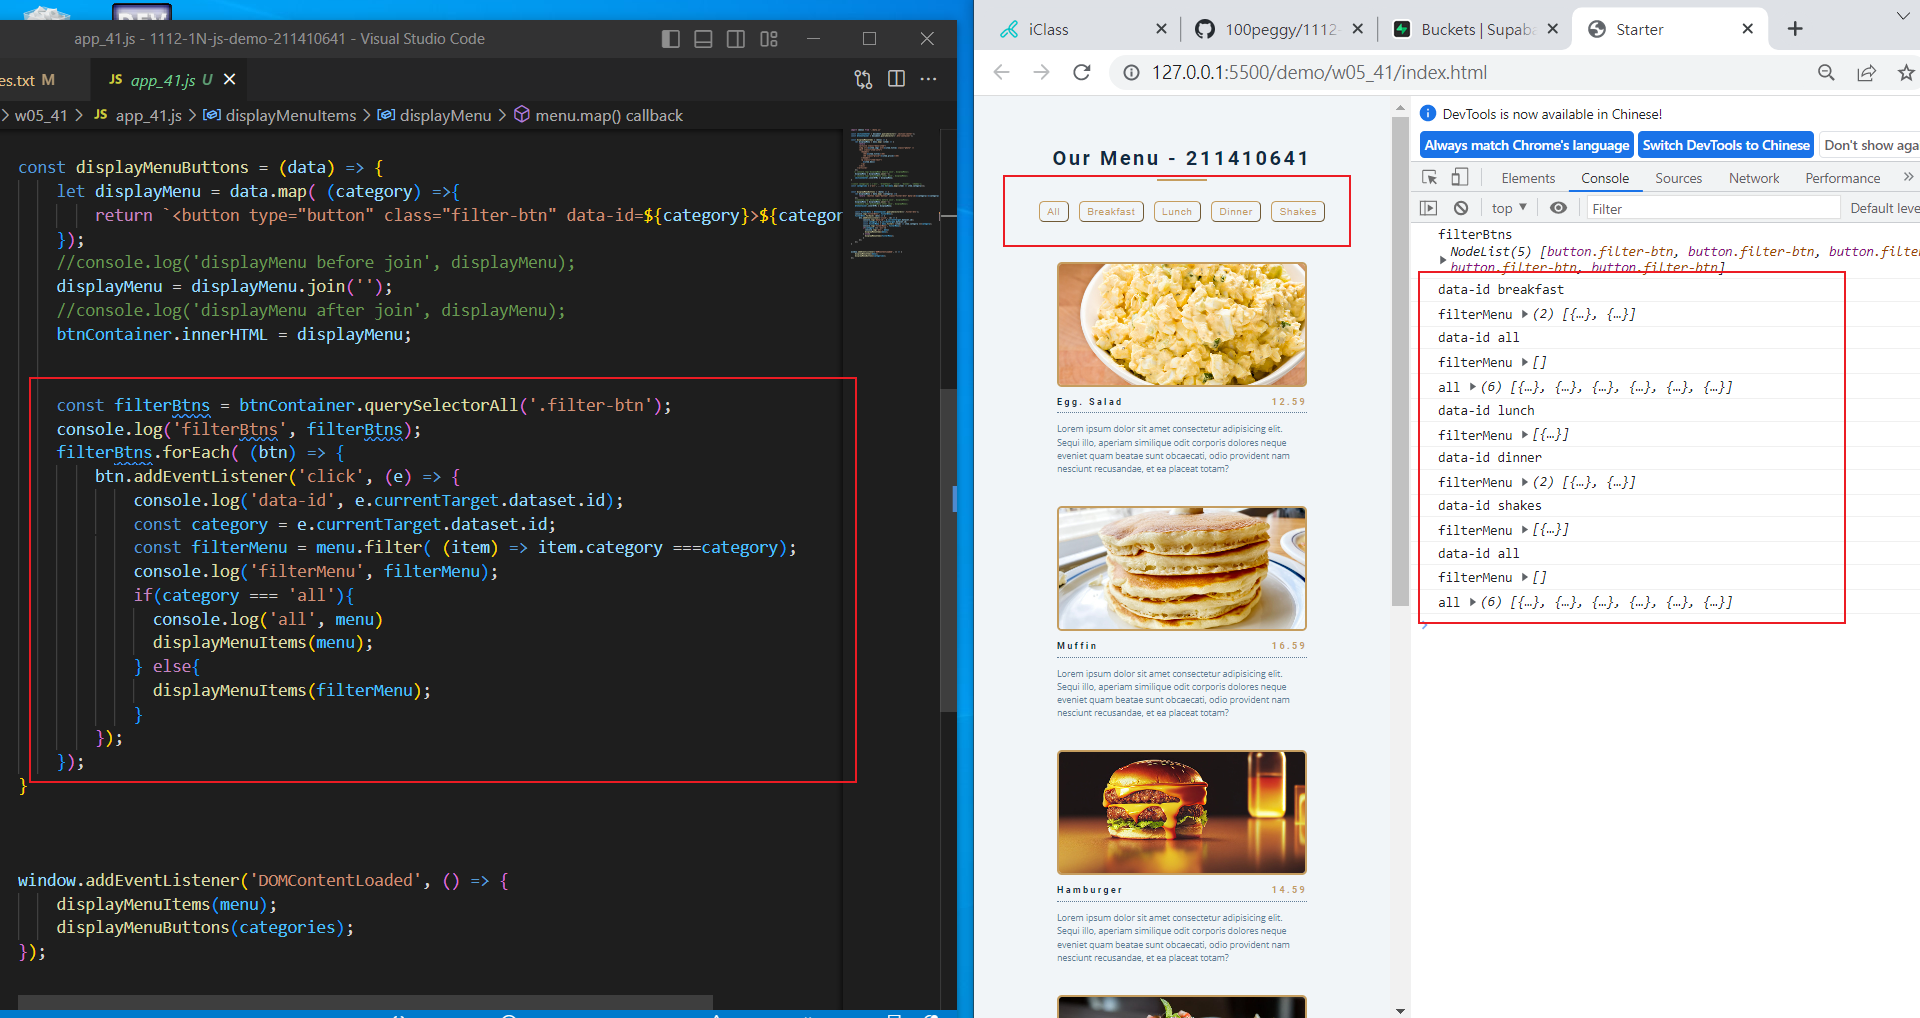
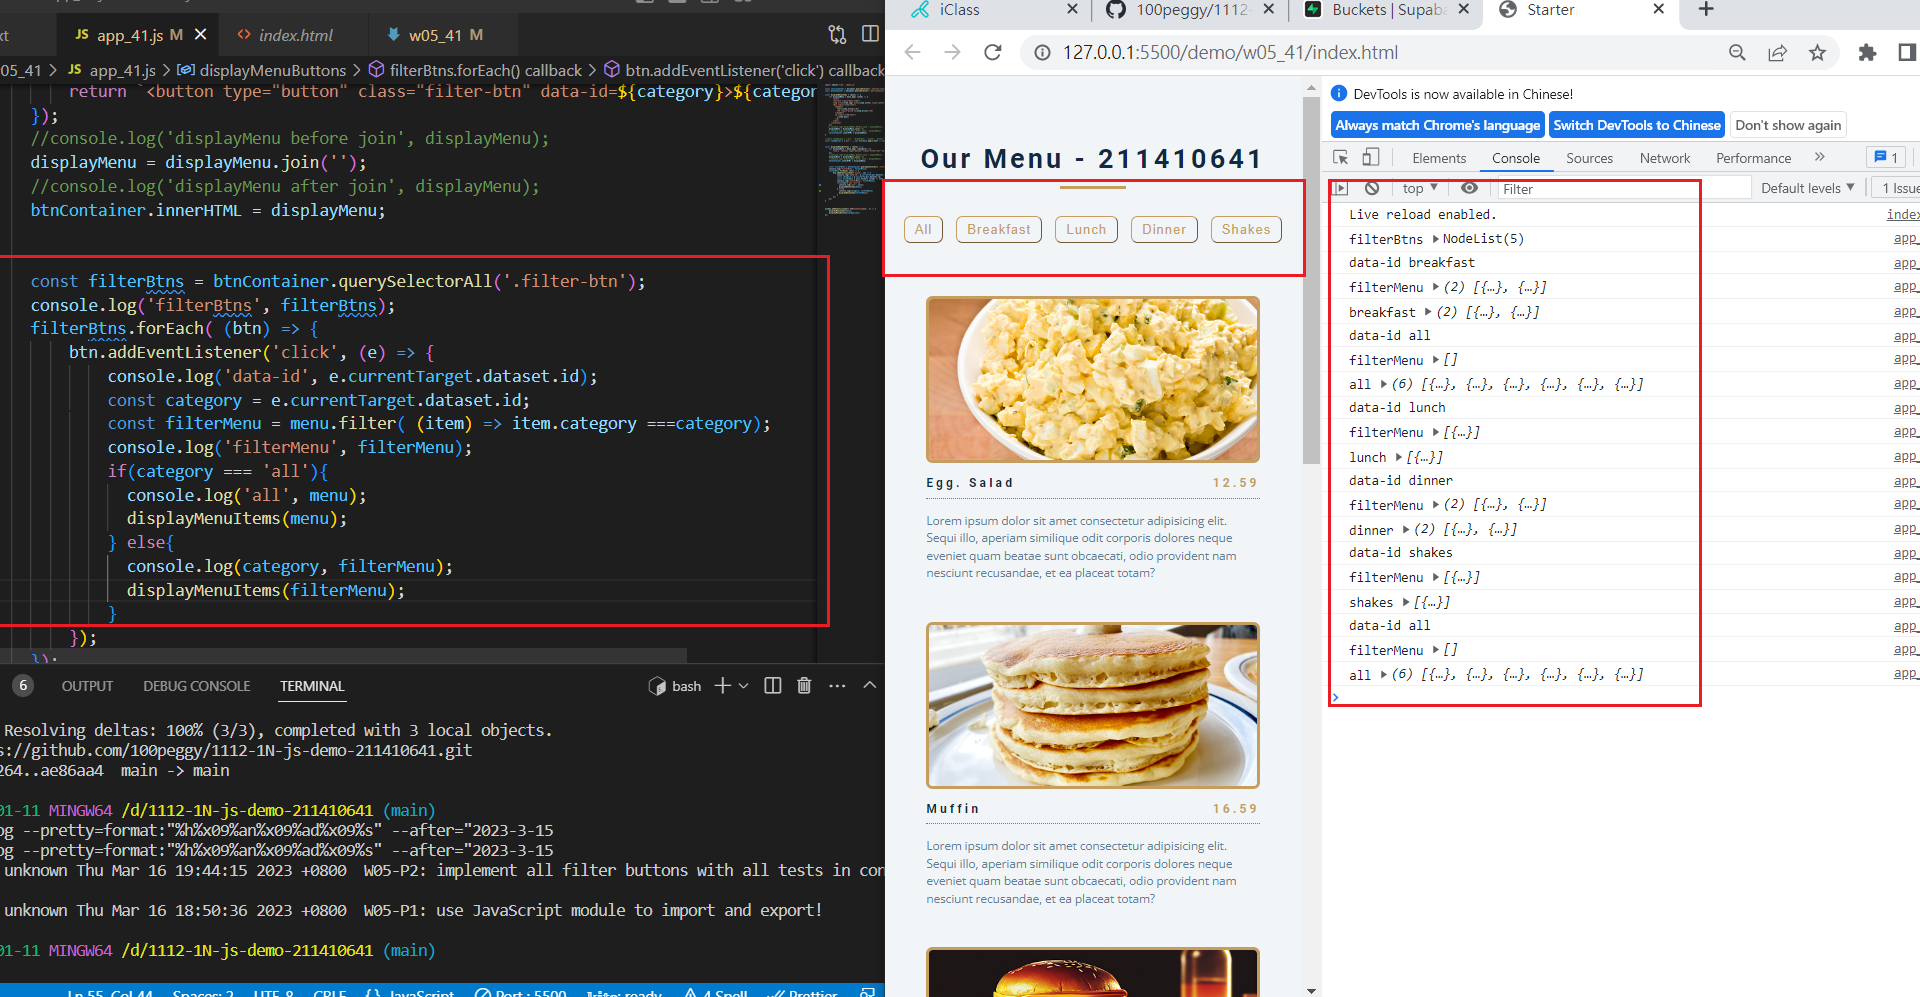
W05-P3: show modal and overlay when pressing a button

diff --git a/style_41.css b/style_41.css
@@ -1,0 +1,85 @@
+* {
+  margin: 0;
+  padding: 0;
+  box-sizing: inherit;
+}
+
+html {
+  font-size: 62.5%;
+  box-sizing: border-box;
+}
+
+body {
+  font-family: sans-serif;
+  color: #333;
+  line-height: 1.5;
+  height: 100vh;
+  position: relative;
+  display: flex;
+  align-items: flex-start;
+  justify-content: center;
+  background: linear-gradient(to top left, #28b487, #7dd56f);
+}
+
+.show-modal {
+  font-size: 2rem;
+  font-weight: 600;
+  padding: 1.75rem 3.5rem;
+  margin: 5rem 2rem;
+  border: none;
+  background-color: #fff;
+  color: #444;
+  border-radius: 10rem;
+  cursor: pointer;
+}
+
+.close-modal {
+  position: absolute;
+  top: 1.2rem;
+  right: 2rem;
+  font-size: 5rem;
+  color: #333;
+  cursor: pointer;
+  border: none;
+  background: none;
+}
+
+h1 {
+  font-size: 2.5rem;
+  margin-bottom: 2rem;
+}
+
+p {
+  font-size: 1.8rem;
+}
+
+/* -------------------------- */
+/* CLASSES TO MAKE MODAL WORK */
+.hidden {
+  display: none;
+}
+
+.modal {
+  position: absolute;
+  top: 50%;
+  left: 50%;
+  transform: translate(-50%, -50%);
+  width: 70%;
+
+  background-color: white;
+  padding: 6rem;
+  border-radius: 5px;
+  box-shadow: 0 3rem 5rem rgba(0, 0, 0, 0.3);
+  z-index: 10;
+}
+
+.overlay {
+  position: absolute;
+  top: 0;
+  left: 0;
+  width: 100%;
+  height: 100%;
+  background-color: rgba(0, 0, 0, 0.6);
+  backdrop-filter: blur(3px);
+  z-index: 5;
+}

diff --git a/index.html b/index.html
@@ -1,0 +1,32 @@
+<!DOCTYPE html>
+<html lang="en">
+  <head>
+    <meta charset="UTF-8" />
+    <meta name="viewport" content="width=device-width, initial-scale=1.0" />
+    <meta http-equiv="X-UA-Compatible" content="ie=edge" />
+    <link rel="stylesheet" href="style_41.css" />
+    <title>Modal window</title>
+  </head>
+  <body>
+    <button class="show-modal">Show modal 1</button>
+    <button class="show-modal">Show modal 2</button>
+    <button class="show-modal">Show modal 3</button>
+
+    <div class="modal hidden">
+      <button class="close-modal">&times;</button>
+      <h1>I'm a modal window 😍</h1>
+      <p>
+        Lorem ipsum dolor sit amet, consectetur adipisicing elit, sed do eiusmod
+        tempor incididunt ut labore et dolore magna aliqua. Ut enim ad minim
+        veniam, quis nostrud exercitation ullamco laboris nisi ut aliquip ex ea
+        commodo consequat. Duis aute irure dolor in reprehenderit in voluptate
+        velit esse cillum dolore eu fugiat nulla pariatur. Excepteur sint
+        occaecat cupidatat non proident, sunt in culpa qui officia deserunt
+        mollit anim id est laborum.
+      </p>
+    </div>
+    <div class="overlay hidden"></div>
+
+    <script src="script_41.js"></script>
+  </body>
+</html>

diff --git a/script_41.js b/script_41.js
@@ -1,0 +1,23 @@
+'use strict';
+
+const modal = document.querySelector('.modal');
+const overlay = document.querySelector('.overlay');
+const btnCloseModal = document.querySelector('.close-modal');
+const btnsOpenModal = document.querySelectorAll('.show-modal');
+console.log('modal', modal);
+console.log('show-modal', btnsOpenModal);
+
+const openModal = (index) => {
+    modal.classList.remove('hidden');
+    overlay.classList.remove('hidden');
+}
+
+for(let i=0; i<btnsOpenModal.length; i++) {
+    btnsOpenModal[i].addEventListener('click', openModal(i));
+}
+
+document.addEventListener('keydown', (e) => {
+    if (e,key === 'ESCAPE' && !modal.classList.contains('hidden')) {
+        btnCloseModal();
+    }
+});

diff --git a/demo/w05_41/app_41.js b/demo/w05_41/app_41.js
@@ -48,9 +48,10 @@ const displayMenuButtons = (data) => {
             const filterMenu = menu.filter( (item) => item.category ===category);
             console.log('filterMenu', filterMenu);
             if(category === 'all'){
-              console.log('all', menu)
+              console.log('all', menu);
               displayMenuItems(menu);
             } else{
+              console.log(category, filterMenu);
               displayMenuItems(filterMenu);
             } 
         });
